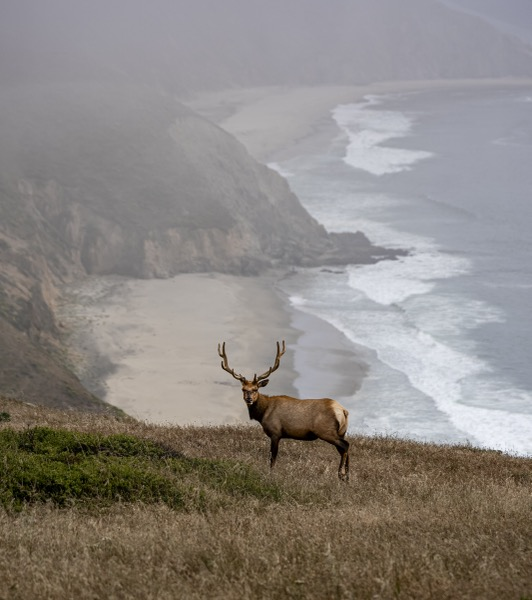
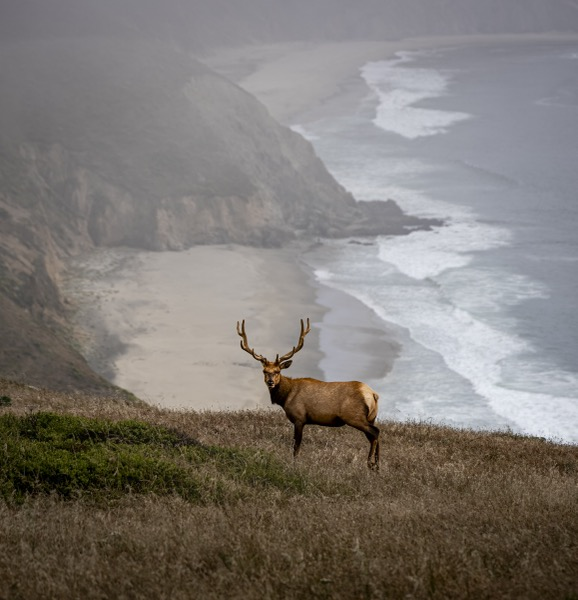
Update Tule Elk photo with new version

diff --git a/index.html b/index.html
@@ -202,7 +202,7 @@
                 </div>
 
                 <div class="gallery-item portrait hidden" data-type="color">
-                    <img src="images/thumbs/Tule-Elk.jpg" data-full="images/Tule-Elk.jpg" alt="Tule Elk" loading="lazy" width="532" height="600">
+                    <img src="images/thumbs/Tule-Elk.jpg" data-full="images/Tule-Elk.jpg" alt="Tule Elk" loading="lazy" width="578" height="600">
                     <div class="gallery-overlay">
                         <span class="photo-title">Tule Elk</span>
                         <span class="photo-location">Tomales Point, California</span>
